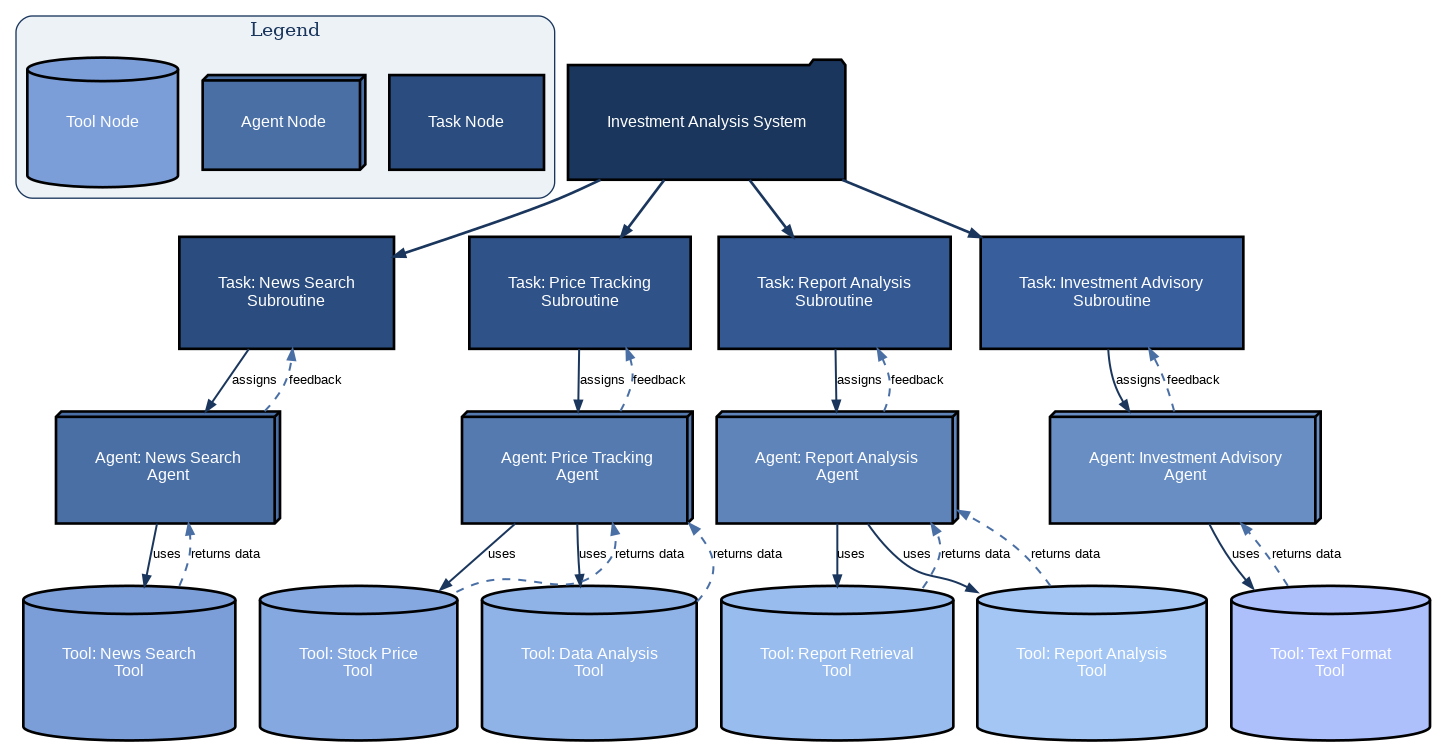
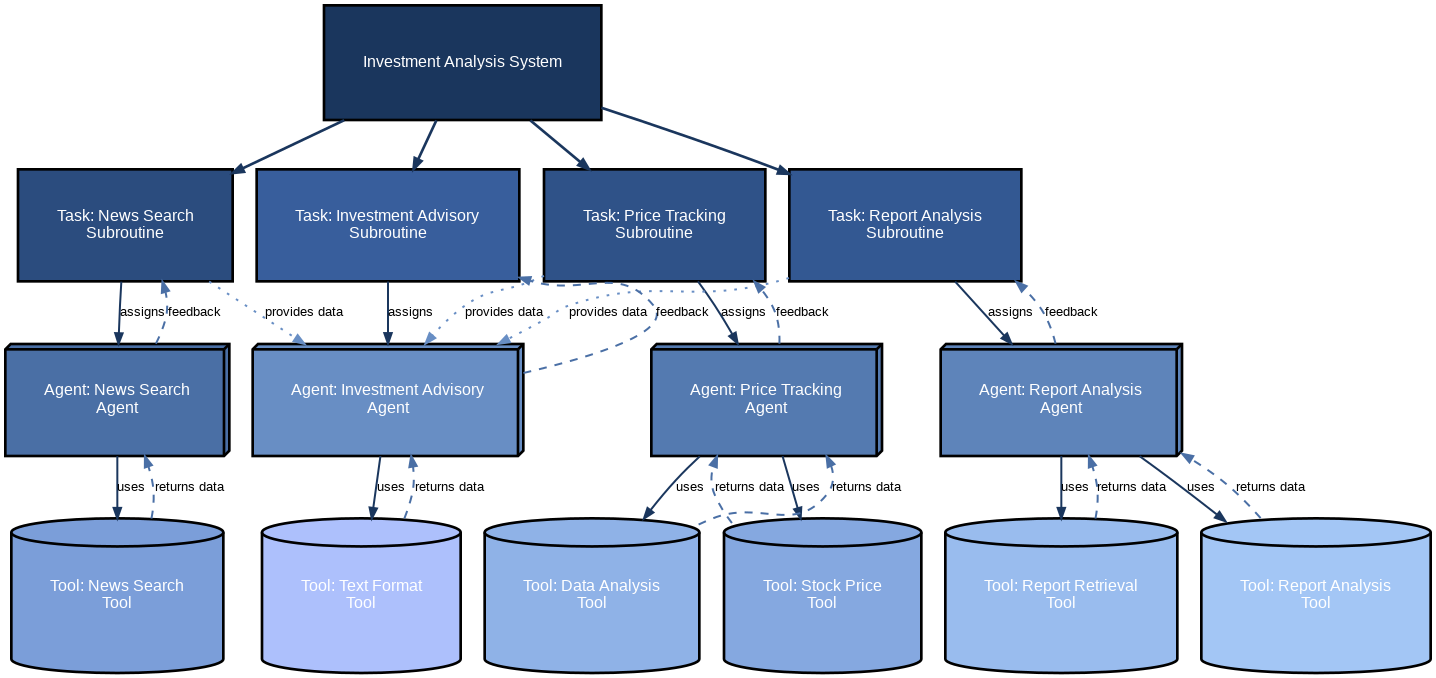
update

diff --git a/diagram/diagram.py b/diagram/diagram.py
@@ -1,124 +1,255 @@
 from graphviz import Digraph
+from typing import Dict, List, Tuple, Optional
+from dataclasses import dataclass
+from enum import Enum
 
-def create_diagram():
-    dot = Digraph(format='png')
-    dot.attr(rankdir='TD', size='20,30')
-    # Light blue-gray background
-    dot.attr(bgcolor='#FFFFFF')
+class NodeType(Enum):
+    TASK = "Task"
+    AGENT = "Agent"
+    TOOL = "Tool"
+
+@dataclass
+class NodeConfig:
+    label: str
+    color: str
+    shape: str = "box"
+    width: str = "2"
+    height: str = "1"
+    style: str = "filled"  # Removed shadowed for cleaner look
+    fontcolor: str = "white"
+    fontname: str = "Arial"
+    margin: str = "0.3"
+
+class ColorScheme:
+    # Modern, cohesive color palette
+    PRIMARY = "#2D3748"
+    TASK = "#4C51BF"
+    AGENT = "#667EEA"
+    TOOL = "#7F9CF5"
+    BACKGROUND = "#FFFFFF"
+    SUMMARY = "#ED64A6"
     
-    # Blue-based color scheme
-    primary_blue = '#1A365D'  # Dark blue for main node
-    task_blue = '#2B4C7E'     # Medium blue for tasks
-    agent_blue = '#4A6FA5'    # Lighter blue for agents
-    tool_blue = '#7B9ED9'     # Lightest blue for tools
+    # Sophisticated gradient variations
+    TASK_VARIANTS = ["#4C51BF", "#5A67D8", "#6875F5"]
+    AGENT_VARIANTS = ["#667EEA", "#7886D7", "#849BE5"]
+    TOOL_VARIANTS = ["#7F9CF5", "#8DA2FB", "#9BB6FE"]
     
-    # Common node attributes with shadow effect
-    dot.attr('node', style='filled,shadowed', shape='box', 
-            fontname='Arial', fontsize='12', 
-            penwidth='2', margin='0.4')
-    
-    # Edge attributes
-    dot.attr('edge', fontname='Arial', fontsize='10', 
-            penwidth='1.5', arrowsize='0.8')
+    # Edge colors
+    EDGE_PRIMARY = "#718096"
+    EDGE_FEEDBACK = "#718096"
+    EDGE_INFO = "#ED64A6"
 
-    # Legend with blue theme
-    with dot.subgraph(name='cluster_legend') as legend:
-        legend.attr(label='Legend', style='rounded,filled', 
-                   color=primary_blue, fillcolor='#EDF2F7', 
-                   fontcolor=primary_blue)
-        legend.node('legend_task', 'Task Node', shape='box', 
-                   fillcolor=task_blue, fontcolor='white')
-        legend.node('legend_agent', 'Agent Node', shape='box3d', 
-                   fillcolor=agent_blue, fontcolor='white')
-        legend.node('legend_tool', 'Tool Node', shape='cylinder', 
-                   fillcolor=tool_blue, fontcolor='white')
-        legend.attr(rank='same')
-    
-    # Main company node
-    dot.node('Company', label='Investment Analysis System', 
-            fillcolor=primary_blue, fontcolor='white',
-            shape='folder', width='2.5', height='1.2')
+class AdvisorySystemConfig:
+    def __init__(self):
+        self.colors = ColorScheme()
+        self.nodes = self._initialize_nodes()
+        self.relationships = self._initialize_relationships()
 
-    # Task nodes with gradient-like effect using different blue shades
-    tasks = {
-        'News Search Task': ('News Search\nSubroutine', task_blue),
-        'Price Track Task': ('Price Tracking\nSubroutine', '#2F5288'),
-        'Report Analysis Task': ('Report Analysis\nSubroutine', '#335892'),
-        'Investment Advice Task': ('Investment Advisory\nSubroutine', '#385E9C')
-    }
-    
-    for task_id, (label, color) in tasks.items():
-        dot.node(task_id, label=f'Task: {label}', 
-                fillcolor=color, fontcolor='white',
-                width='2', height='1')
+    def _initialize_nodes(self) -> Dict[NodeType, Dict[str, NodeConfig]]:
+        return {
+            NodeType.TASK: {
+                'News Search Task': NodeConfig(
+                    label="News Search\nSubroutine",
+                    color=self.colors.TASK_VARIANTS[0],
+                    shape="rect",
+                    fontname="Arial Bold"
+                ),
+                'Market Track Task': NodeConfig(
+                    label="Market Tracking\nSubroutine",
+                    color=self.colors.TASK_VARIANTS[1],
+                    shape="rect",
+                    fontname="Arial Bold"
+                ),
+                'Report Analysis Task': NodeConfig(
+                    label="Report Analysis\nSubroutine",
+                    color=self.colors.TASK_VARIANTS[2],
+                    shape="rect",
+                    fontname="Arial Bold"
+                ),
+                'Advisory Task': NodeConfig(
+                    label="Advisory\nSubroutine",
+                    color=self.colors.SUMMARY,
+                    shape="rect",
+                    fontname="Arial Bold"
+                )
+            },
+            NodeType.AGENT: {
+                'News Searcher': NodeConfig(
+                    label="News Search\nAgent",
+                    color=self.colors.AGENT_VARIANTS[0],
+                    shape="box3d",
+                    width="1.8",
+                    height="0.9",
+                    fontname="Arial"
+                ),
+                'Market Tracker': NodeConfig(
+                    label="Market Tracking\nAgent",
+                    color=self.colors.AGENT_VARIANTS[1],
+                    shape="box3d",
+                    width="1.8",
+                    height="0.9",
+                    fontname="Arial"
+                ),
+                'Report Analyst': NodeConfig(
+                    label="Report Analysis\nAgent",
+                    color=self.colors.AGENT_VARIANTS[2],
+                    shape="box3d",
+                    width="1.8",
+                    height="0.9",
+                    fontname="Arial"
+                ),
+                'Advisor': NodeConfig(
+                    label="Advisory\nAgent",
+                    color=self.colors.SUMMARY,
+                    shape="box3d",
+                    width="1.8",
+                    height="0.9",
+                    fontname="Arial Bold"
+                )
+            },
+            NodeType.TOOL: {
+                'News Search Tool': NodeConfig(
+                    label="News Search\nTool",
+                    color=self.colors.TOOL_VARIANTS[0],
+                    shape="cylinder",
+                    width="1.7",
+                    height="0.8",
+                    fontname="Arial"
+                ),
+                'Market Data Tool': NodeConfig(
+                    label="Market Data Tool, \nStock Price Tool",
+                    color=self.colors.TOOL_VARIANTS[1],
+                    shape="cylinder",
+                    width="1.7",
+                    height="0.8",
+                    fontname="Arial"
+                ),
+                'Report Tool': NodeConfig(
+                    label="Report Retrieval Tool, \nReport Analysis Tool",
+                    color=self.colors.TOOL_VARIANTS[2],
+                    shape="cylinder",
+                    width="1.7",
+                    height="0.8",
+                    fontname="Arial"
+                ),
+                'Summary Tool': NodeConfig(
+                    label="Information\nSynthesis Tool",
+                    color=self.colors.SUMMARY,
+                    shape="cylinder",
+                    width="1.7",
+                    height="0.8",
+                    fontname="Arial Bold"
+                )
+            }
+        }
 
-    # Role nodes with lighter blue shades
-    roles = {
-        'News Searcher': ('News Search\nAgent', agent_blue),
-        'Price Tracker': ('Price Tracking\nAgent', '#547AB0'),
-        'Report Analyst': ('Report Analysis\nAgent', '#5E84BA'),
-        'Investment Advisor': ('Investment Advisory\nAgent', '#688EC4')
-    }
-    
-    for role_id, (label, color) in roles.items():
-        dot.node(role_id, label=f'Agent: {label}', 
-                fillcolor=color, fontcolor='white',
-                shape='box3d', width='1.8', height='0.9')
+    def _initialize_relationships(self) -> Dict[str, List[Tuple[str, str, dict]]]:
+        return {
+            'task_agent': [
+                ('News Search Task', 'News Searcher', {'color': self.colors.EDGE_PRIMARY, 'label': 'assigns', 'fontname': 'Arial'}),
+                ('Market Track Task', 'Market Tracker', {'color': self.colors.EDGE_PRIMARY, 'label': 'assigns', 'fontname': 'Arial'}),
+                ('Report Analysis Task', 'Report Analyst', {'color': self.colors.EDGE_PRIMARY, 'label': 'assigns', 'fontname': 'Arial'}),
+                ('Advisory Task', 'Advisor', {'color': self.colors.EDGE_PRIMARY, 'label': 'assigns', 'fontname': 'Arial'})
+            ],
+            'agent_tool': [
+                ('News Searcher', 'News Search Tool', {'color': self.colors.EDGE_PRIMARY, 'label': 'uses', 'fontname': 'Arial'}),
+                ('Market Tracker', 'Market Data Tool', {'color': self.colors.EDGE_PRIMARY, 'label': 'uses', 'fontname': 'Arial'}),
+                ('Report Analyst', 'Report Tool', {'color': self.colors.EDGE_PRIMARY, 'label': 'uses', 'fontname': 'Arial'}),
+                ('Advisor', 'Summary Tool', {'color': self.colors.EDGE_PRIMARY, 'label': 'uses', 'fontname': 'Arial'})
+            ],
+            'info_flow': [
+                ('News Search Task', 'Advisor', {'color': self.colors.EDGE_INFO, 'style': 'bold', 'label': '', 'penwidth': '2', 'fontname': 'Arial'}),
+                ('Market Track Task', 'Advisor', {'color': self.colors.EDGE_INFO, 'style': 'bold', 'label': '', 'penwidth': '2', 'fontname': 'Arial'}),
+                ('Report Analysis Task', 'Advisor', {'color': self.colors.EDGE_INFO, 'style': 'bold', 'label': '', 'penwidth': '2', 'fontname': 'Arial'})
+            ],
+            # 'feedback': [
+            #     ('News Searcher', 'News Search Task', {'color': self.colors.EDGE_FEEDBACK, 'label': 'feedback', 'fontname': 'Arial', 'constraint': 'false'}),
+            #     ('Market Tracker', 'Market Track Task', {'color': self.colors.EDGE_FEEDBACK, 'label': 'feedback', 'fontname': 'Arial', 'constraint': 'false'}),
+            #     ('Report Analyst', 'Report Analysis Task', {'color': self.colors.EDGE_FEEDBACK, 'label': 'feedback', 'fontname': 'Arial', 'constraint': 'false'}),
+            #     ('Advisor', 'Advisory Task', {'color': self.colors.EDGE_FEEDBACK, 'label': 'feedback', 'fontname': 'Arial', 'constraint': 'false'})
+            # ]
+        }
 
-    # Tool nodes with lightest blue shades
-    tools = {
-        'News Search Tool': ('News Search\nTool', tool_blue),
-        'Stock Price Tool': ('Stock Price\nTool', '#85A8E0'),
-        'Data Analysis Tool': ('Data Analysis\nTool', '#8FB2E7'),
-        'Report Retrieval Tool': ('Report Retrieval\nTool', '#99BCEE'),
-        'Report Analysis Tool': ('Report Analysis\nTool', '#A3C6F5'),
-        'Text Format Tool': ('Text Format\nTool', '#ADC0FC')
-    }
-    
-    for tool_id, (label, color) in tools.items():
-        dot.node(tool_id, label=f'Tool: {label}', 
-                fillcolor=color, fontcolor='white',
-                shape='cylinder', width='1.7', height='0.8')
+class AdvisoryDiagramGenerator:
+    def __init__(self, config: Optional[AdvisorySystemConfig] = None):
+        self.config = config or AdvisorySystemConfig()
 
-    # Forward edges from company to tasks
-    for task in tasks:
-        dot.edge('Company', task, color=primary_blue, penwidth='2')
+    def _initialize_diagram(self) -> Digraph:
+        dot = Digraph(format='png')
+        dot.attr(
+            rankdir='TD',
+            size='20,30',
+            bgcolor=self.config.colors.BACKGROUND,
+            splines='curved',  # Changed to curved for more organic feel
+            compound='true',
+            pad='0.5'
+        )
+        
+        # Enhanced default node attributes
+        dot.attr('node',
+                style='filled',
+                fontname='Arial',
+                fontsize='12',
+                penwidth='1.5',
+                margin='0.3')
+        
+        # Enhanced default edge attributes
+        dot.attr('edge',
+                fontname='Arial',
+                fontsize='10',
+                penwidth='1.2',
+                arrowsize='0.7')
+        
+        return dot
 
-    # Task to role connections with feedback
-    task_to_role = [
-        ('News Search Task', 'News Searcher'),
-        ('Price Track Task', 'Price Tracker'),
-        ('Report Analysis Task', 'Report Analyst'),
-        ('Investment Advice Task', 'Investment Advisor')
-    ]
-    
-    for task, role in task_to_role:
-        # Forward arrow
-        dot.edge(task, role, color=primary_blue, style='solid', penwidth='1.5',
-                label='assigns')
-        # Feedback arrow
-        dot.edge(role, task, color='#4A6FA5', style='dashed', penwidth='1.5',
-                label='feedback', constraint='false')
+    def _add_nodes(self, dot: Digraph) -> None:
+        for node_type, nodes in self.config.nodes.items():
+            for node_id, config in nodes.items():
+                dot.node(
+                    node_id,
+                    label=f"{config.label}",  # Removed node type from label for cleaner look
+                    fillcolor=config.color,
+                    shape=config.shape,
+                    width=config.width,
+                    height=config.height,
+                    style=config.style,
+                    fontcolor=config.fontcolor,
+                    fontname=config.fontname,
+                    margin=config.margin
+                )
 
-    # Role to tool connections with feedback
-    role_to_tools = [
-        ('News Searcher', ['News Search Tool']),
-        ('Price Tracker', ['Stock Price Tool', 'Data Analysis Tool']),
-        ('Report Analyst', ['Report Retrieval Tool', 'Report Analysis Tool']),
-        ('Investment Advisor', ['Text Format Tool'])
-    ]
-    
-    for role, tools_list in role_to_tools:
-        for tool in tools_list:
-            # Forward arrow
-            dot.edge(role, tool, color=primary_blue, style='solid',
-                    label='uses')
-            # Feedback arrow
-            dot.edge(tool, role, color='#4A6FA5', style='dashed',
-                    label='returns data', constraint='false')
+    def _add_relationships(self, dot: Digraph) -> None:
+        for relationship_type, edges in self.config.relationships.items():
+            for source, target, attrs in edges:
+                dot.edge(source, target, **attrs)
 
-    return dot
+    def _add_advisory_cluster(self, dot: Digraph) -> None:
+        with dot.subgraph(name='cluster_advisory') as c:
+            c.attr(
+                label='Advisory System',
+                style='rounded',
+                color=self.config.colors.SUMMARY,
+                fillcolor=f"{self.config.colors.SUMMARY}10",
+                fontcolor=self.config.colors.SUMMARY,
+                fontname='Arial Bold',
+                penwidth='2',
+                margin='20'
+            )
+            c.node('Advisory Task')
+            c.node('Advisor')
+            c.node('Summary Tool')
 
-# Create and save the diagram
-diagram = create_diagram()
-diagram.render('company_tasks_diagram', format='png', cleanup=True)
+    def create_diagram(self) -> Digraph:
+        dot = self._initialize_diagram()
+        self._add_nodes(dot)
+        self._add_relationships(dot)
+        self._add_advisory_cluster(dot)
+        return dot
+
+def generate_diagram(output_file: str = 'advisory_system_diagram') -> None:
+    generator = AdvisoryDiagramGenerator()
+    diagram = generator.create_diagram()
+    diagram.render(output_file, format='png', cleanup=True)
+
+if __name__ == '__main__':
+    generate_diagram()
